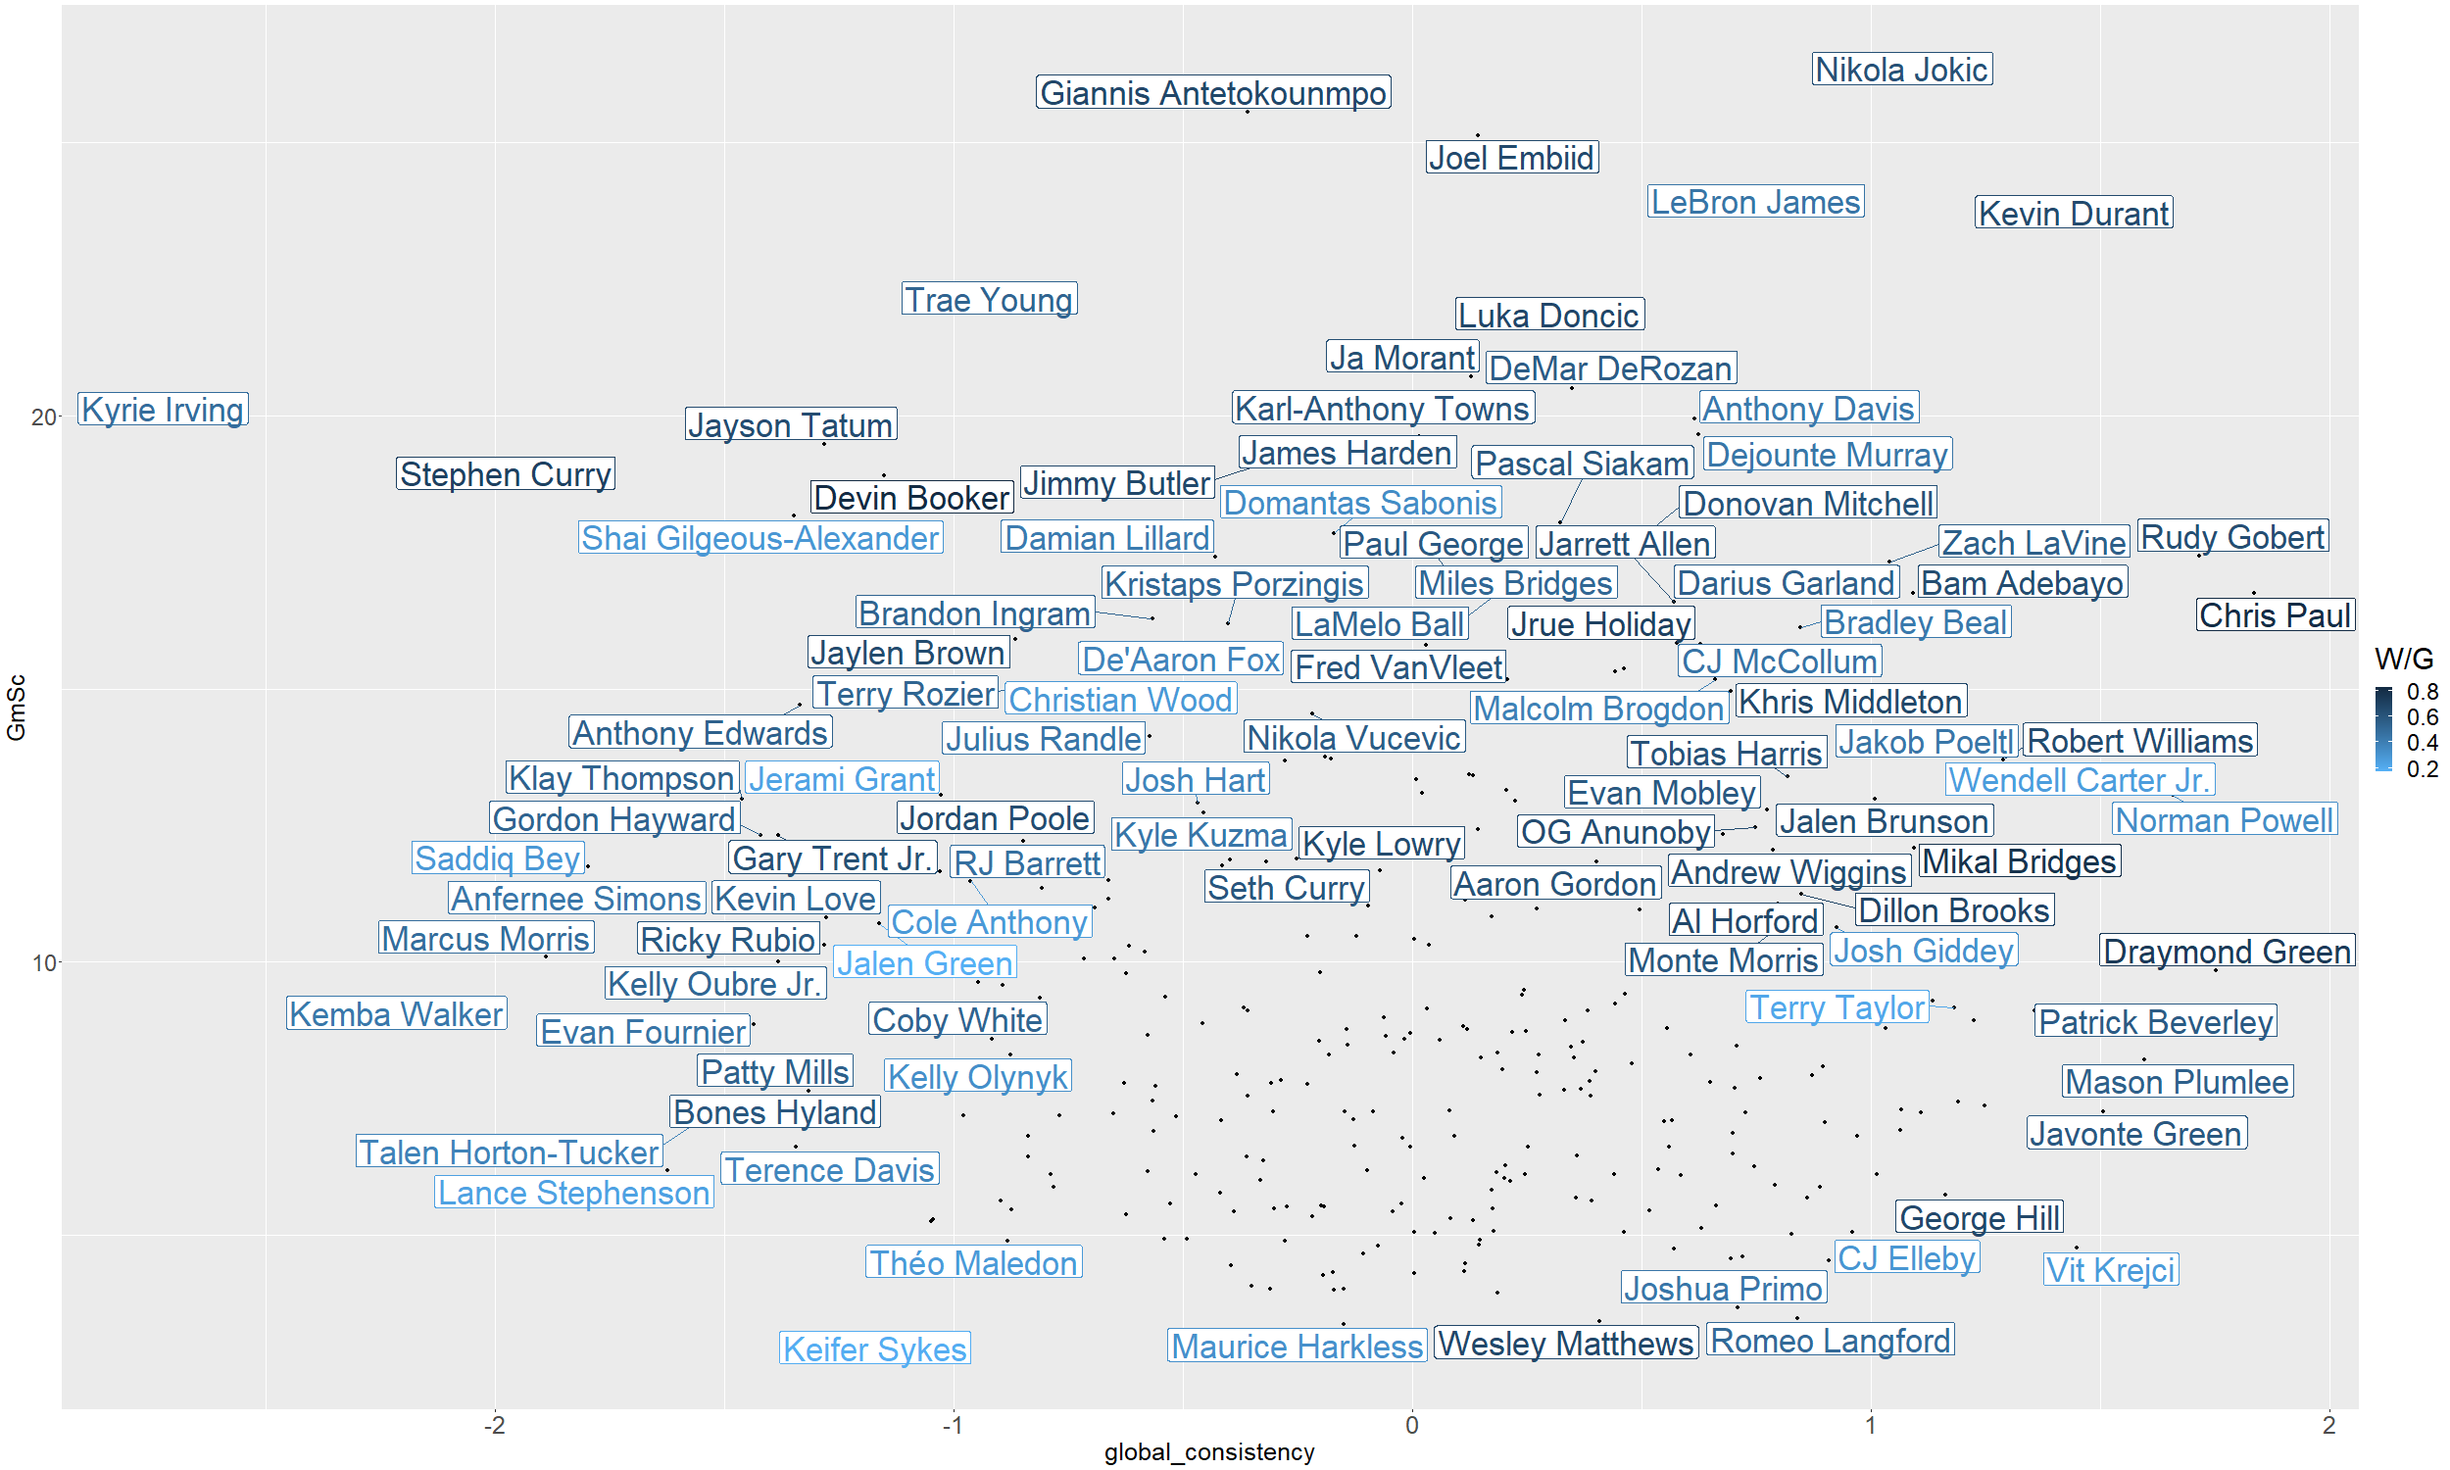
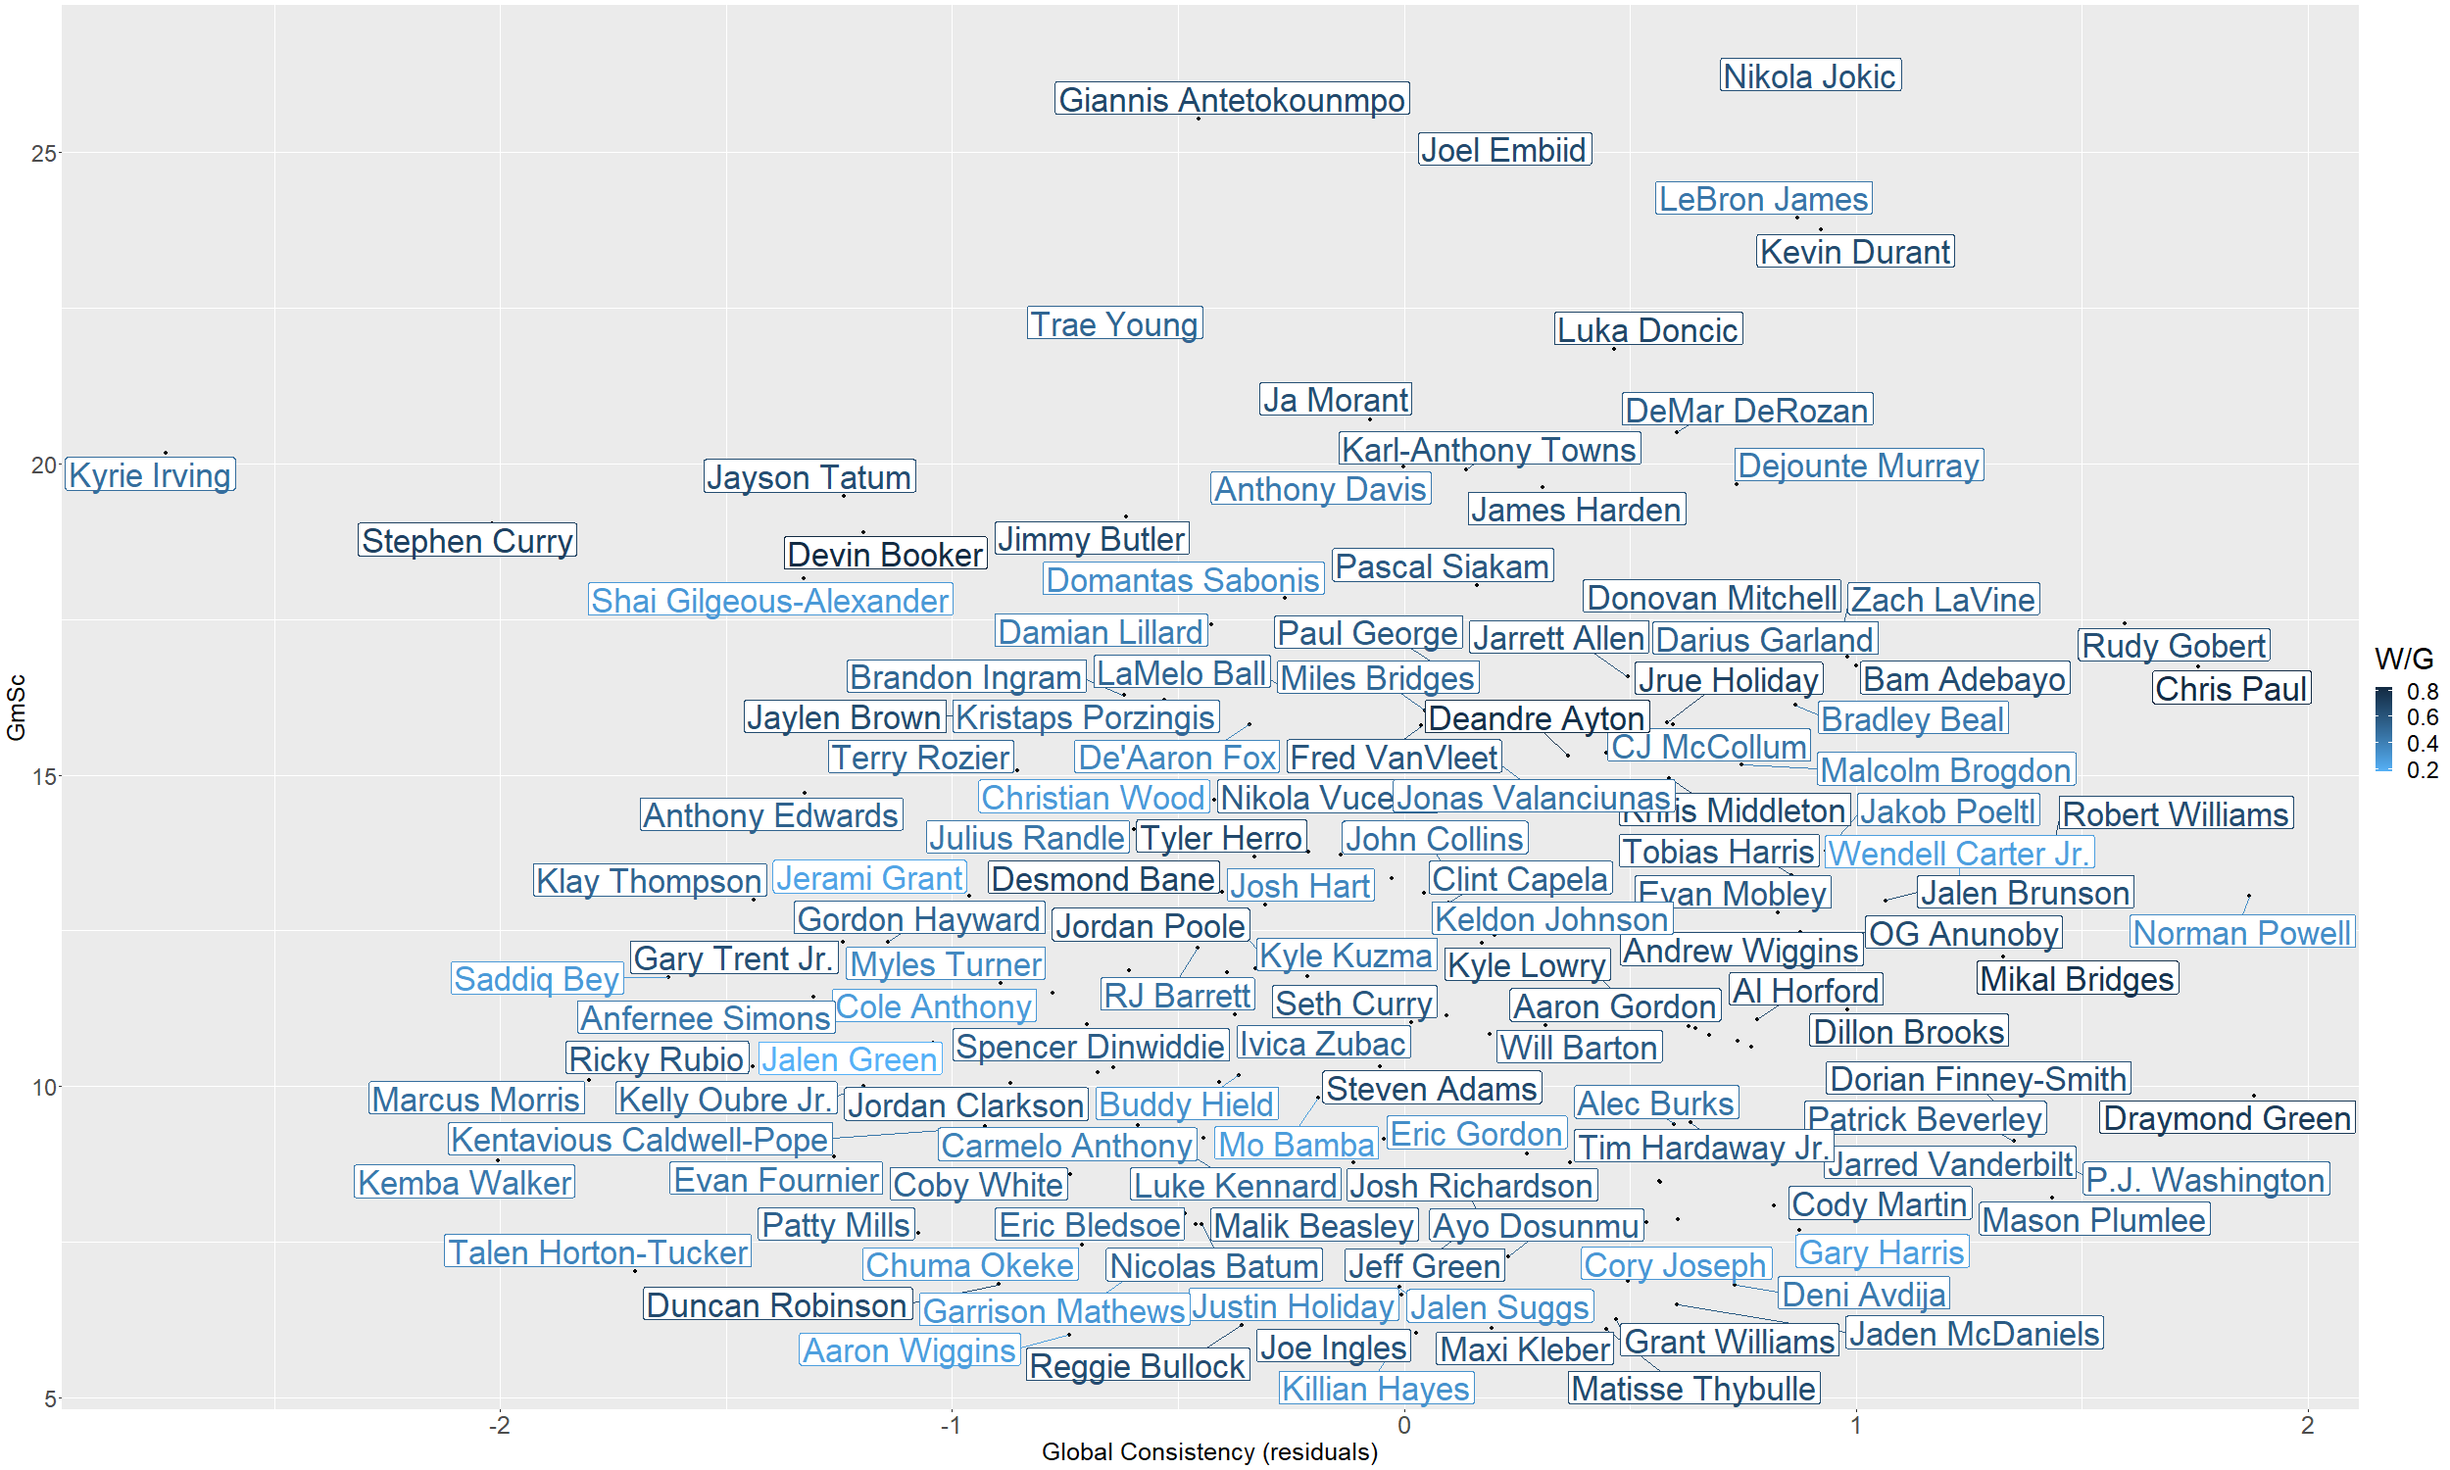
consistency modified

diff --git a/README.md b/README.md
@@ -15,6 +15,10 @@ Data from NBA.com: <br>
 Data from [Basketball Reference](https://www.basketball-reference.com/) <br>
 Based 2021-22 season 
 
+**Simple (global) consistency**: Standard deviation of GmSc divided by Standard deviation of minutes per game
+
+![This is an image](https://raw.githubusercontent.com/sheng-fu/NBA_stats/main/consistency_simp_2022.png)
+
 **Global consistency**: Negative residuals of standard deviation of a player's GmSc  predicted by average GmSc, average minutes per game, and standard deviation of minutes per game
 
 ![This is an image](https://raw.githubusercontent.com/sheng-fu/NBA_stats/main/consistency_glob_2022.png)
